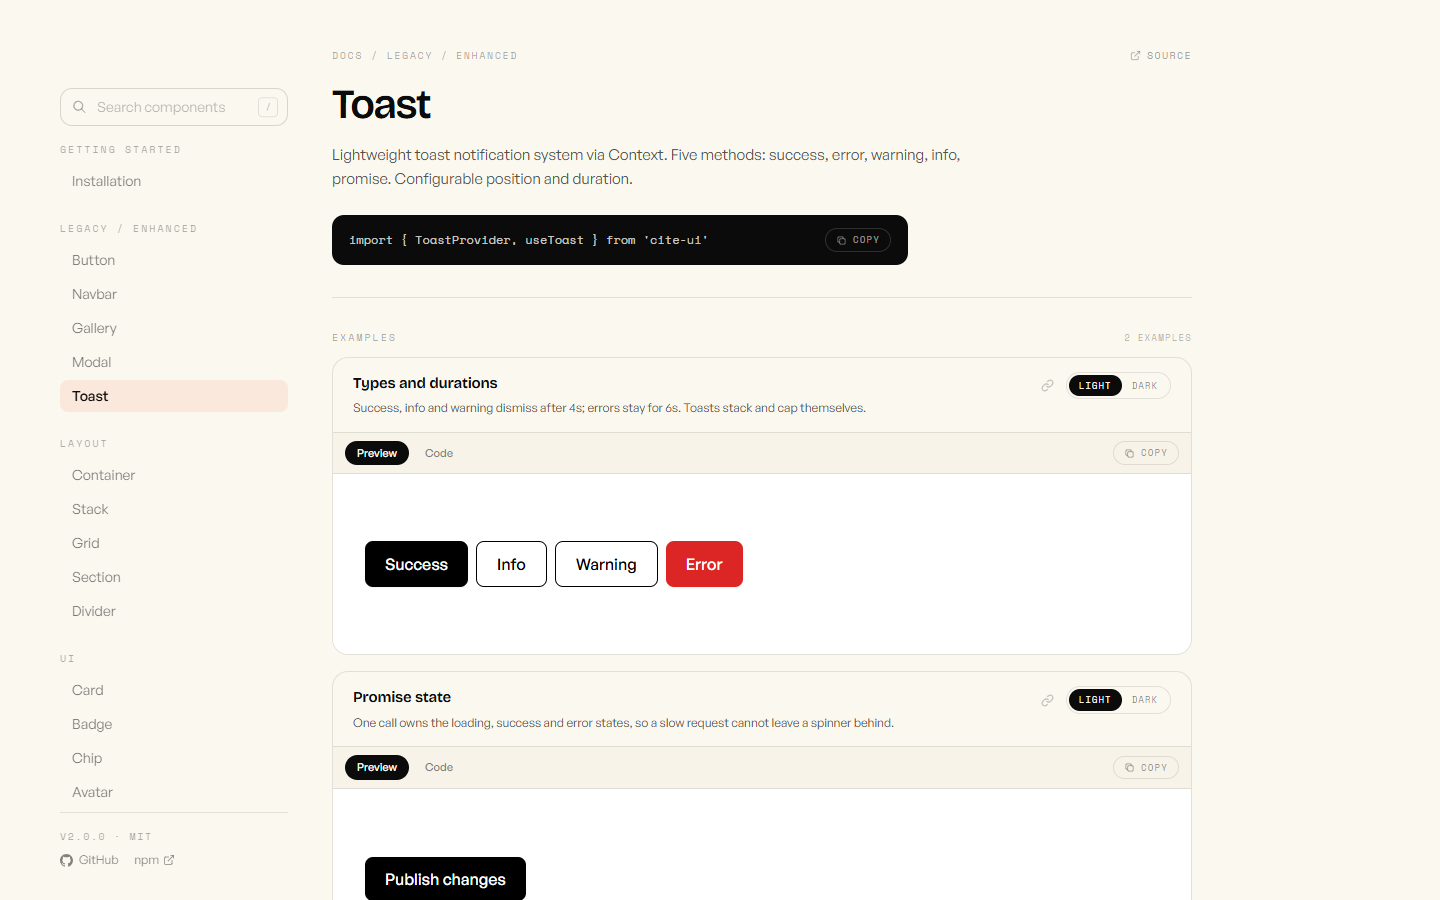
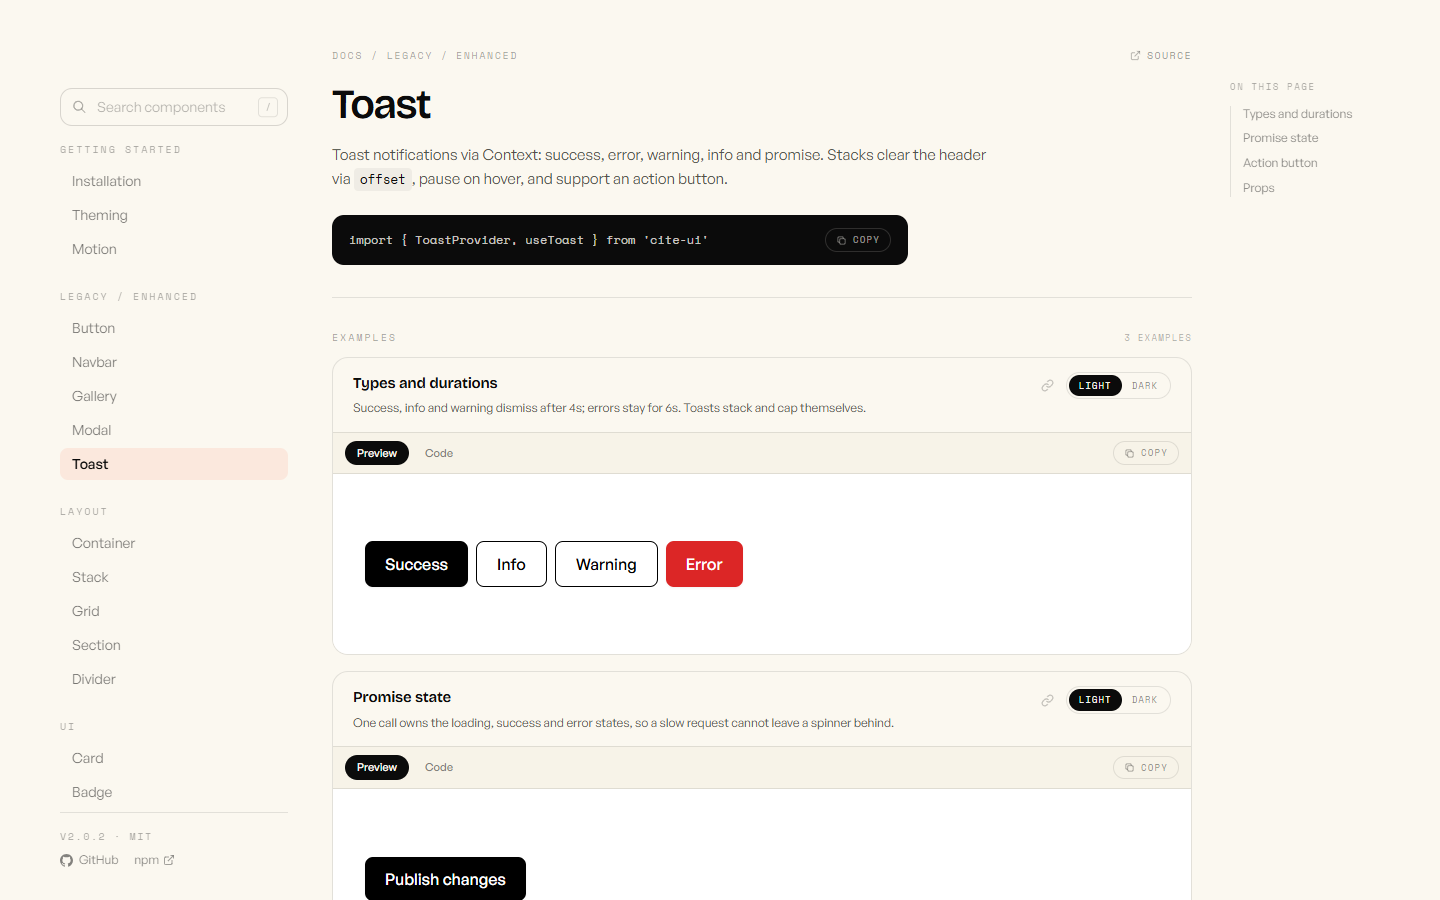
Update cite-ui stats for 2.0.2 and refresh the docs preview

diff --git a/src/pages/Developers.jsx b/src/pages/Developers.jsx
@@ -21,7 +21,7 @@ const EMAIL = 'email.framestudio@gmail.com'
 const STATS = [
   { value: '39', label: 'components' },
   { value: '0', label: 'runtime deps' },
-  { value: '18 kB', label: 'gzip, ESM' },
+  { value: '21 kB', label: 'gzip, ESM' },
   { value: 'MIT', label: 'license' },
 ]
 
@@ -197,7 +197,7 @@ export default function Developers() {
                     <span className="text-paper/30">$ </span>
                     <span className="text-paper/85">npm install cite-ui</span>
                   </span>
-                  <span className="block text-accent">+ cite-ui@2.0.0</span>
+                  <span className="block text-accent">+ cite-ui@2.0.2</span>
                   <span className="block">added 1 package · 0 dependencies</span>
                   <span className="block">{' '}</span>
                   <span className="block">

diff --git a/AGENTS.md b/AGENTS.md
@@ -153,7 +153,7 @@ Rules that keep it honest:
   `node_modules` in `tailwind.config.js`, and drop grey defaults into a
   vermilion/paper page. Each tab's code panel shows the package's real API and
   links to that component's readme section.
-- **Status numbers live in `Developers.jsx`.** `39`, `18 kB gzip`, `v2.0.0` in the
+- **Status numbers live in `Developers.jsx`.** `39`, `21 kB gzip`, `v2.0.2` in the
   hero terminal. The count is the number of component exports in cite-ui's
   `src/index.jsx` (plus 4 hooks, 6 utilities). Update them with the package, or
   drop the number.
